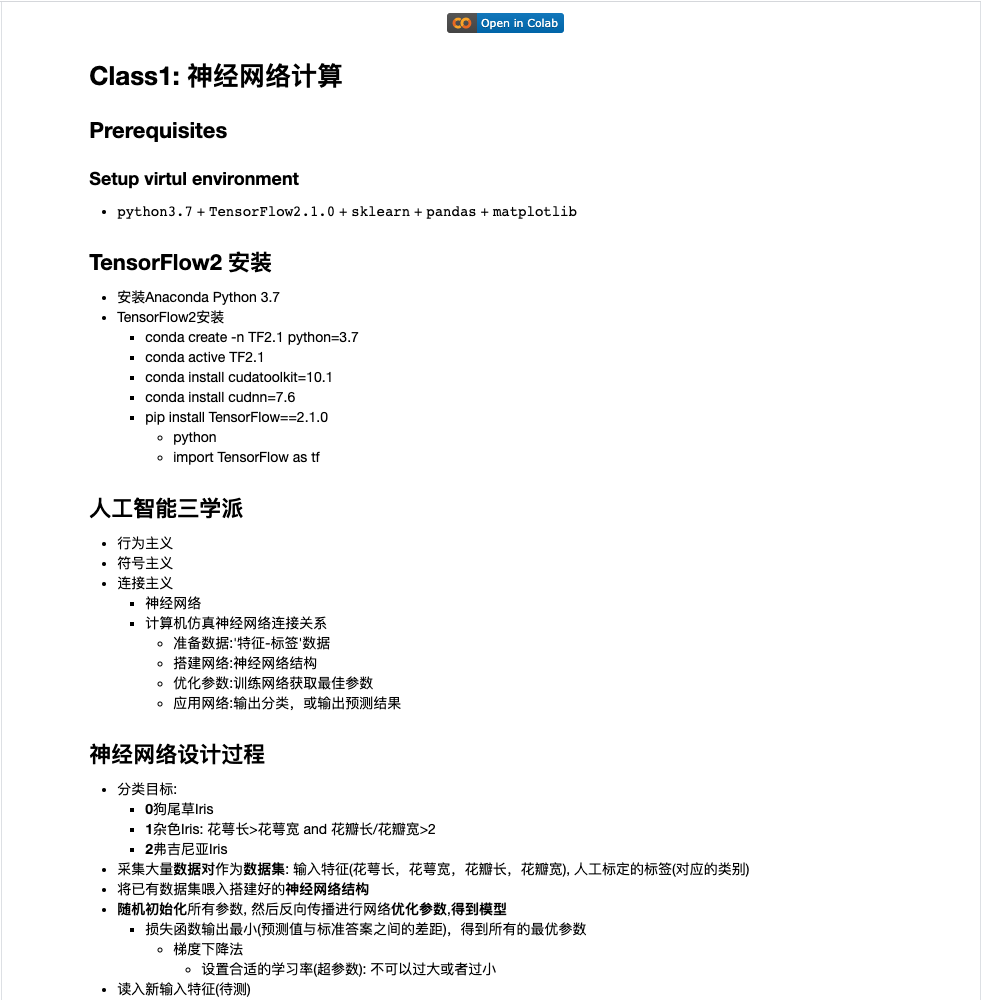
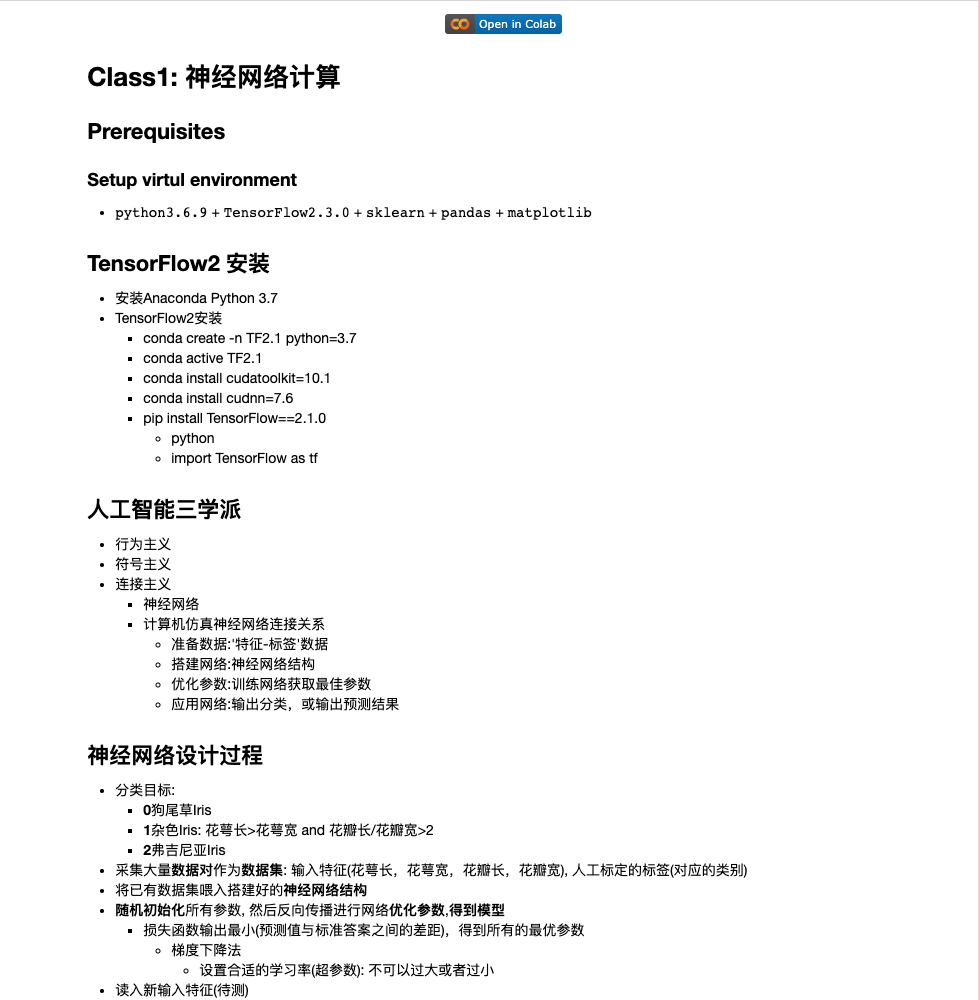
modify context

diff --git a/docs/post/tensorflow201/index.html b/docs/post/tensorflow201/index.html
@@ -69,11 +69,11 @@
 <meta property="og:type" content="article" />
 <meta property="og:url" content="https://xiaonilee.github.io/post/tensorflow201/" />
 <meta property="article:published_time" content="2020-12-02T00:00:00+00:00" />
-<meta property="article:modified_time" content="2020-12-02T00:00:00+00:00" />
+<meta property="article:modified_time" content="2020-12-07T00:00:00+00:00" />
 <meta itemprop="name" content="TensorFlow2 class1: Iris">
 <meta itemprop="description" content="TensorFlow2 notebook: Class1 神经网络计算.">
 <meta itemprop="datePublished" content="2020-12-02T00:00:00+00:00" />
-<meta itemprop="dateModified" content="2020-12-02T00:00:00+00:00" />
+<meta itemprop="dateModified" content="2020-12-07T00:00:00+00:00" />
 <meta itemprop="wordCount" content="27">
 
 
@@ -509,7 +509,7 @@ if (!doNotTrack) {
 <p>神经网络实现Iris分类</p>
 </li>
 <li>
-<p><code>TensorFlow2</code> + <code>Python3.7</code></p>
+<p><code>TensorFlow2.3.0</code> + <code>Python3.6.9</code></p>
 <p><a href="https://gist.github.com/xiaonilee/92768a4f7c91fc7553e58f1b2a7e02d5"><img src="fig1.png" alt="fig1"></a>
 <a href="https://gist.github.com/xiaonilee/92768a4f7c91fc7553e58f1b2a7e02d5"><img src="fig2.png" alt="fig2"></a></p>
 </li>

diff --git a/docs/post/tensorflow202/index.html b/docs/post/tensorflow202/index.html
@@ -69,11 +69,11 @@
 <meta property="og:type" content="article" />
 <meta property="og:url" content="https://xiaonilee.github.io/post/tensorflow202/" />
 <meta property="article:published_time" content="2020-12-03T00:00:00+00:00" />
-<meta property="article:modified_time" content="2020-12-03T00:00:00+00:00" />
+<meta property="article:modified_time" content="2020-12-07T00:00:00+00:00" />
 <meta itemprop="name" content="TensorFlow2 class2: 数据网络优化">
 <meta itemprop="description" content="TensorFlow2 notebook: Class2 神经网络优化.">
 <meta itemprop="datePublished" content="2020-12-03T00:00:00+00:00" />
-<meta itemprop="dateModified" content="2020-12-03T00:00:00+00:00" />
+<meta itemprop="dateModified" content="2020-12-07T00:00:00+00:00" />
 <meta itemprop="wordCount" content="45">
 
 

diff --git a/content/post/TensorFlow201.md b/content/post/TensorFlow201.md
@@ -1,7 +1,7 @@
 ---
 title: "TensorFlow2 class1: Iris"
 date: 2020-12-02
-lastmod: 2020-12-02
+lastmod: 2020-12-07
 draft: false
 tags: ["TensorFlow2", "ML"]
 categories: ["TensorFlow2", "ML", "big data"]
@@ -24,7 +24,7 @@ TensorFlow2 notebook: Class1 神经网络计算.
 ## In summary
 
 - 神经网络实现Iris分类
-- `TensorFlow2` + `Python3.7`
+- `TensorFlow2.3.0` + `Python3.6.9`
 
   [![fig1](fig1.png)](https://gist.github.com/xiaonilee/92768a4f7c91fc7553e58f1b2a7e02d5)
   [![fig2](fig2.png)](https://gist.github.com/xiaonilee/92768a4f7c91fc7553e58f1b2a7e02d5)

diff --git a/content/post/TensorFlow202.md b/content/post/TensorFlow202.md
@@ -1,7 +1,7 @@
 ---
 title: "TensorFlow2 class2: 数据网络优化"
 date: 2020-12-03
-lastmod: 2020-12-03
+lastmod: 2020-12-07
 draft: false
 tags: ["TensorFlow2", "ML"]
 categories: ["TensorFlow2", "ML", "big data"]
